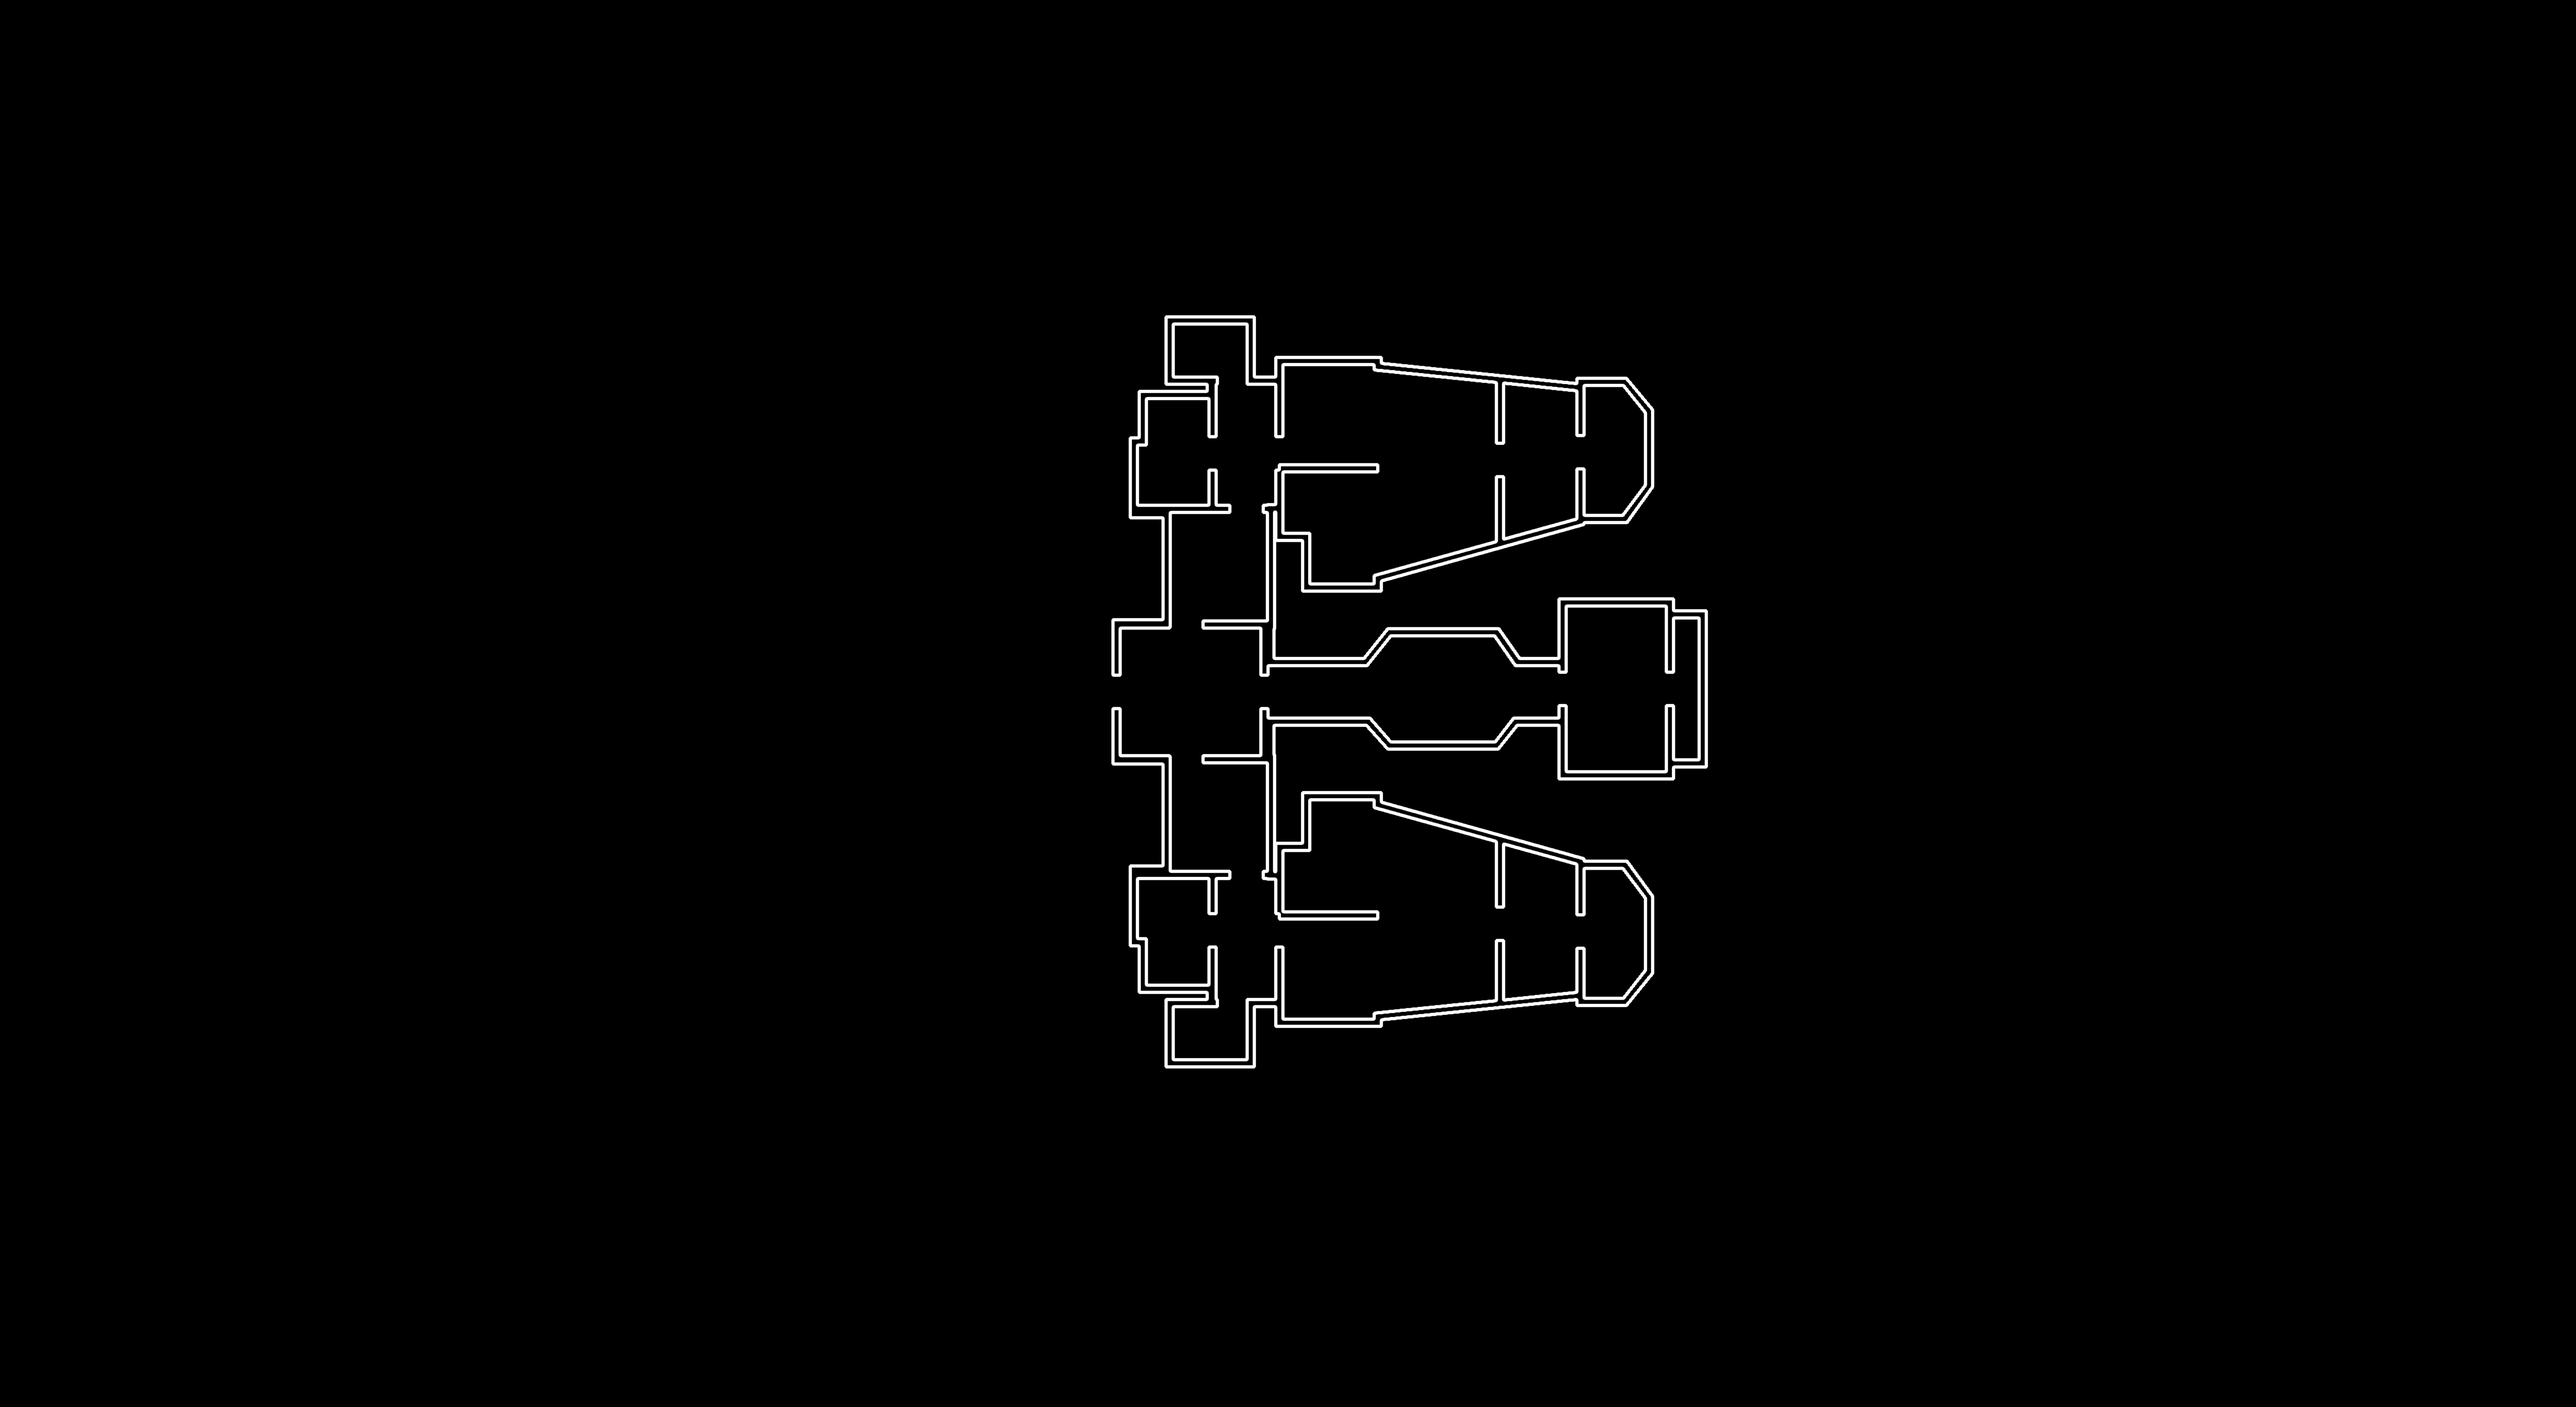
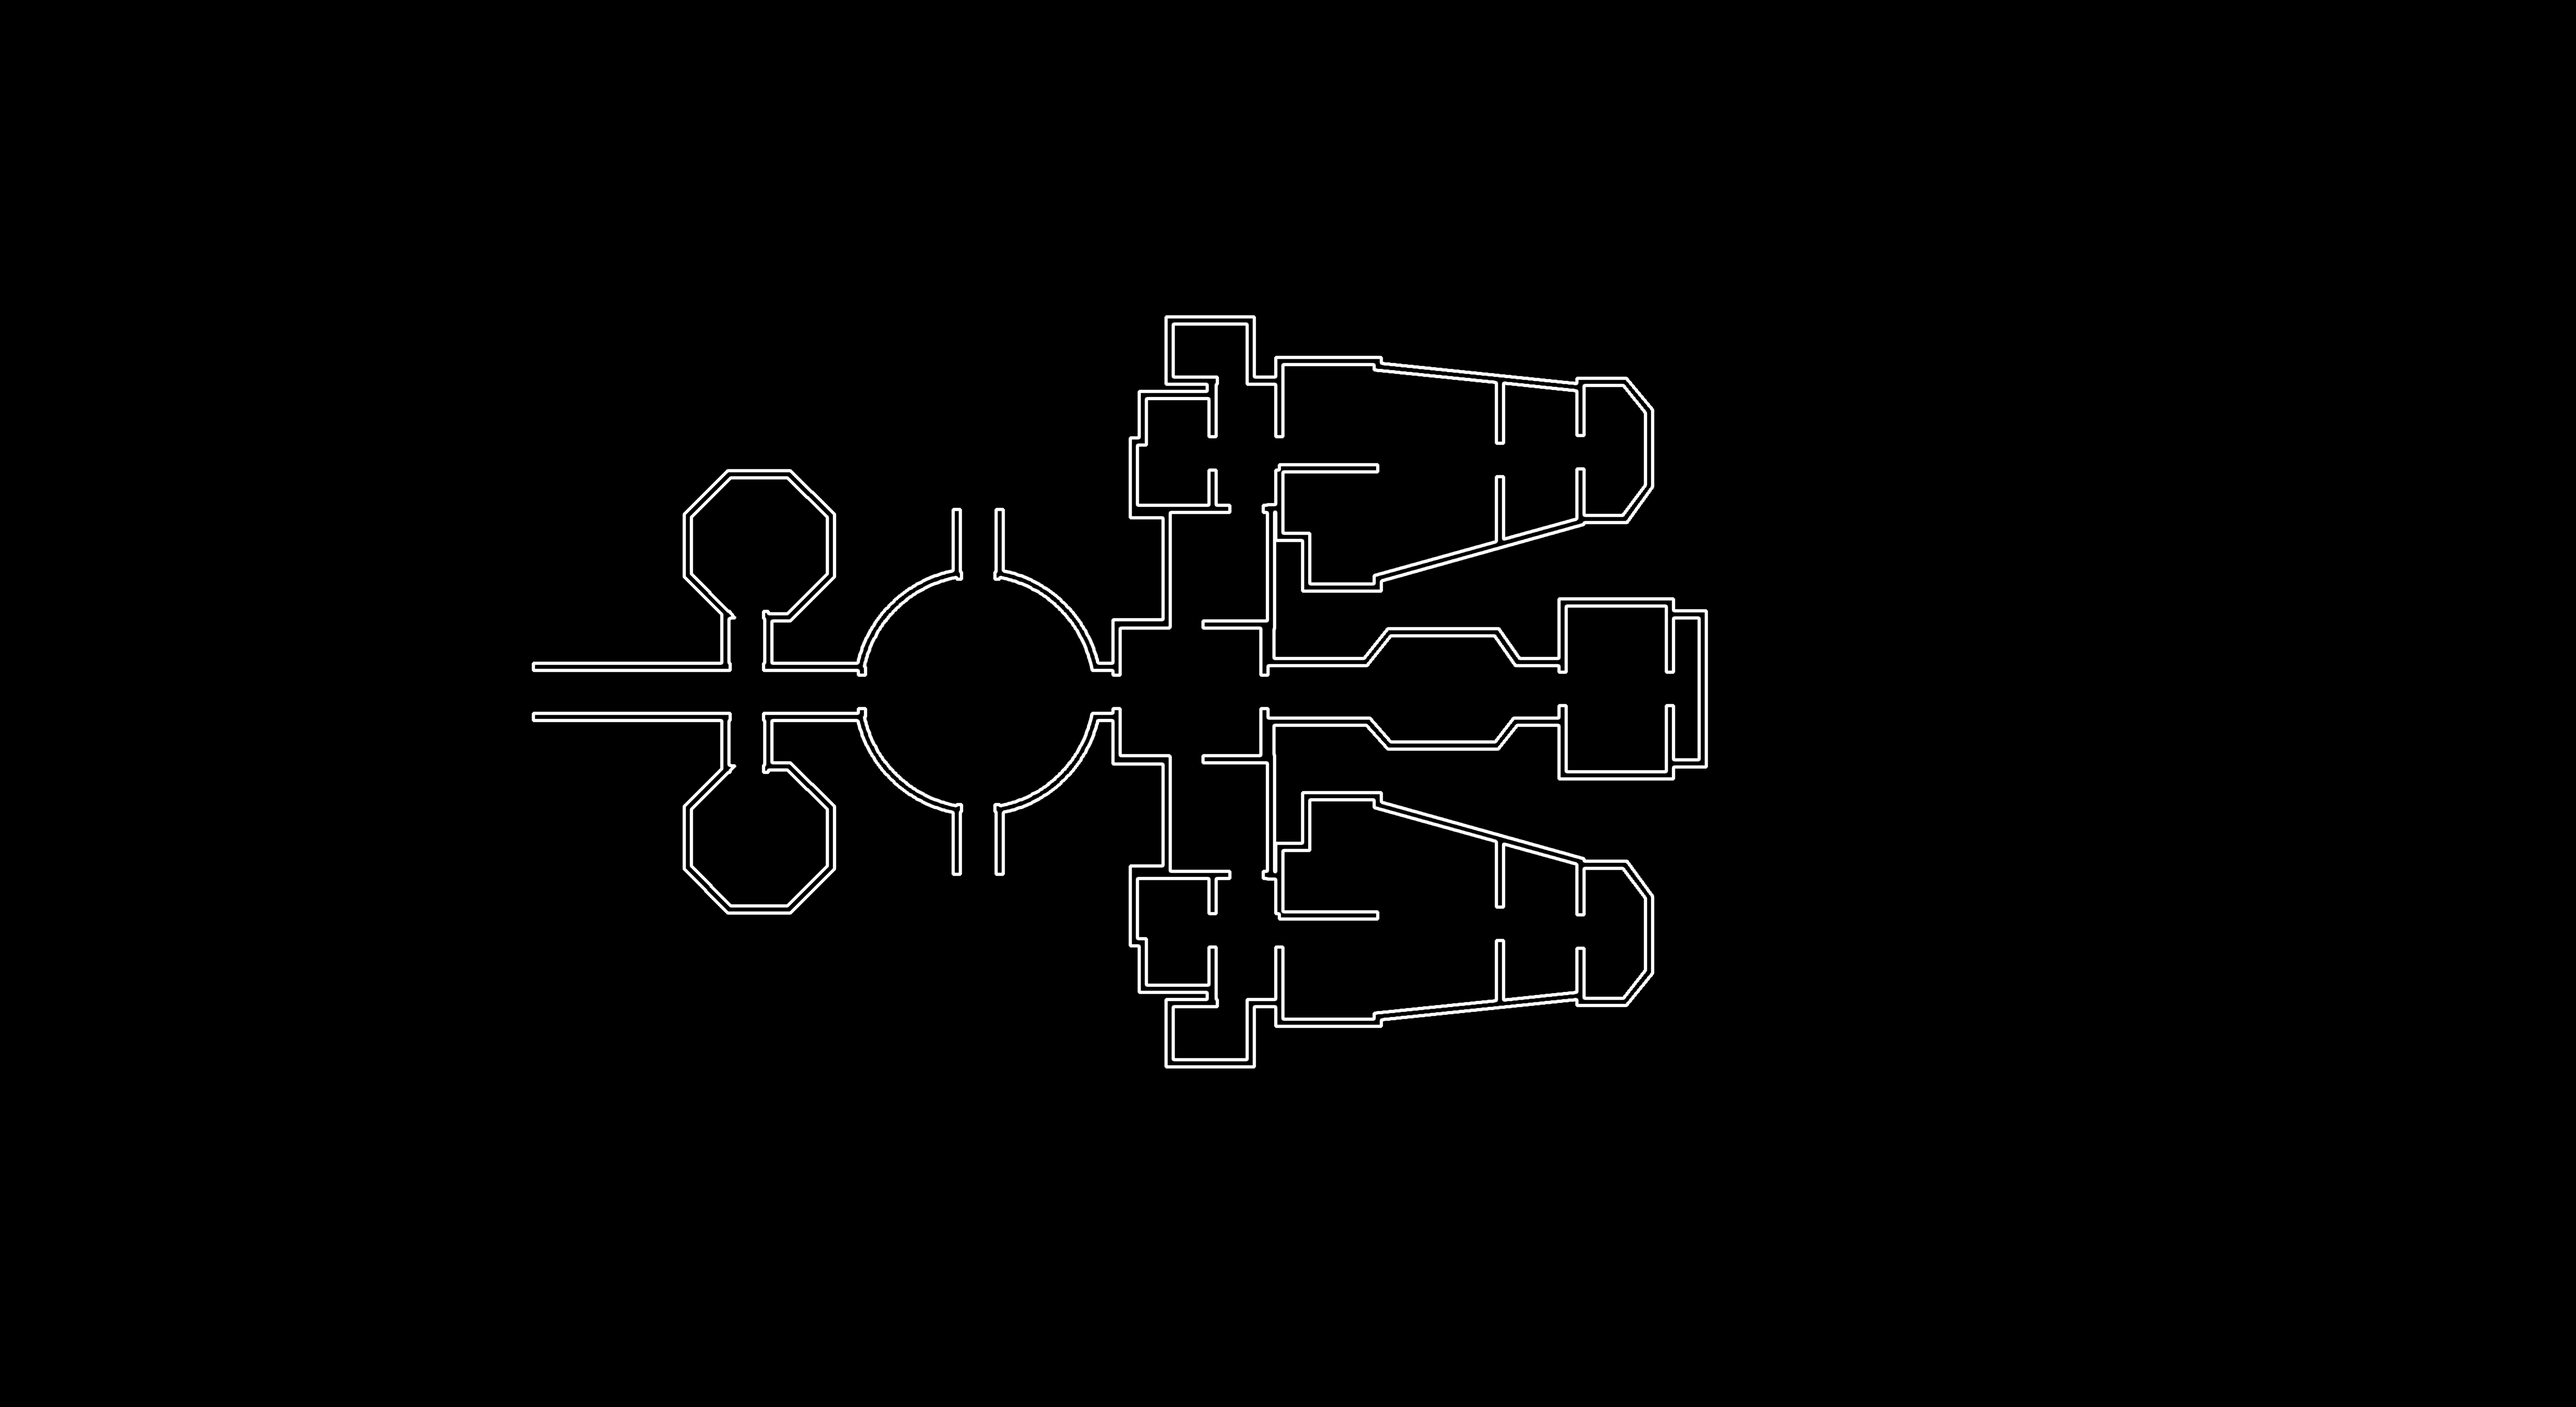
v13.36: Tianjin main deck section 3 (CIC, spine, octagons)
Claude-Session: https://claude.ai/code/session_01SinQW9aeLHqCBjq9e21Gyo

diff --git a/web_shell.html b/web_shell.html
@@ -4,8 +4,8 @@
 <meta charset="utf-8">
 <meta name="viewport" content="width=device-width,initial-scale=1,maximum-scale=1,user-scalable=no,viewport-fit=cover">
 <meta name="theme-color" content="#f6f9fc">
-<meta name="hl-version" content="v13.35">
-<title>Homelancer Digital v13.35</title>
+<meta name="hl-version" content="v13.36">
+<title>Homelancer Digital v13.36</title>
 <style>
 *{box-sizing:border-box}
 html,body{margin:0;width:100%;height:100%;background:#f6f9fc;color:#0e2f5a;font:16px system-ui,sans-serif;overflow:hidden;touch-action:none}

diff --git a/tools/trace/ship_tianjin_03/eng/build_main_deck.py b/tools/trace/ship_tianjin_03/eng/build_main_deck.py
@@ -47,11 +47,28 @@ s2_walls = [wall((1901, 638), (2150, 638), [168]),     # owner X: escape-pod roo
 s2_walls = s2_walls + [mirror(w) for w in s2_walls] + [
             wall((2120, 1047), (2120, 2 * CY - 1047), [CY - 1047]),   # centre room / forward corridor
             wall((1872, 1047), (1872, 2 * CY - 1047), [CY - 1047])]   # centre room / CIC (next section)
-floor = unary_union([pod, mirror(pod), corridor, bay, col])
+# ---- section 3: round CIC (circle fit R 201 about (1640, 1161)), the spine aft, two octagon rooms on links
+from shapely.geometry import Point
+def octagon(cx, cy, a):   # regular octagon, flat top/bottom/sides, apothem a
+    r = a / np.cos(np.pi / 8)
+    return Polygon([(cx + r * np.cos(np.pi / 8 + k * np.pi / 4), cy + r * np.sin(np.pi / 8 + k * np.pi / 4)) for k in range(8)])
+cic3 = Point(1640, CY).buffer(201, 128)
+spine = box(900, CY - 42, 1445, CY + 42)                       # wall centres 1118 / 1202 (measured 1122 / 1205)
+cic_link = box(1835, CY - DOOR / 2 - 14, 1885, CY + DOOR / 2 + 14)
+octa = octagon(1273, 915, 120)
+olink = box(1216, 1030, 1288, CY - 30)                         # octagon down to the spine
+stub = box(1604, 860, 1676, 970)                                # CIC up to the Galley wedge (next section)
+s3_walls = [wall((1216, 1031), (1288, 1031), [36]), wall((1216, CY - 42), (1288, CY - 42), [36])]   # framed doors at both ends
+s3_walls = s3_walls + [mirror(w) for w in s3_walls] + [
+    wall((1445, CY - 42), (1445, CY + 42), [42]),               # spine into the CIC
+    wall((1604, 965), (1676, 965), [36]), mirror(wall((1604, 965), (1676, 965), [36]))]
+s3 = unary_union([cic3, spine, cic_link, octa, mirror(octa), olink, mirror(olink), stub, mirror(stub)])
+floor = unary_union([pod, mirror(pod), corridor, bay, col, s3])
 walls = floor.buffer(T / 2, join_style=2).difference(floor.buffer(-T / 2, join_style=2))
-inner = unary_union(pod_walls + [mirror(w) for w in pod_walls] + bay_walls + s2_walls).intersection(floor.buffer(T / 2, join_style=2))   # no stubs outside
+inner = unary_union(pod_walls + [mirror(w) for w in pod_walls] + bay_walls + s2_walls + s3_walls).intersection(floor.buffer(T / 2, join_style=2))   # no stubs outside
 walls = unary_union([walls, inner])
-for o in [box(1855, CY - DOOR / 2, 1890, CY + DOOR / 2)]:            # centre room opens aft into the CIC (next section)
+for o in [box(880, CY - 36, 912, CY + 36),                            # spine runs on aft (next section)
+          box(1610, 850, 1670, 868), mirror(box(1610, 850, 1670, 868))]:   # CIC stubs run on (next section)
     walls = walls.difference(o)
 
 src = cv2.imread(os.path.join(HERE, "..", "part_main_deck_x4.jpg")); H, W = src.shape[:2]
@@ -66,6 +83,7 @@ for im in (plan, ov): cv2.drawContours(im, cs, -1, (255, 255, 255), 3, cv2.LINE_
 cv2.imwrite(os.path.join(HERE, "main_plan.png"), plan)
 cv2.imwrite(os.path.join(HERE, "main_plan_on_map.jpg"), ov, [cv2.IMWRITE_JPEG_QUALITY, 88])
 cv2.imwrite(os.path.join(HERE, "main_plan_section1.jpg"), ov[520:1800, 1900:2950], [cv2.IMWRITE_JPEG_QUALITY, 90])
+cv2.imwrite(os.path.join(HERE, "main_s3_big.jpg"), cv2.resize(ov[600:1720, 860:1900], None, fx=1.3, fy=1.3, interpolation=cv2.INTER_CUBIC), [cv2.IMWRITE_JPEG_QUALITY, 90])
 cv2.imwrite(os.path.join(HERE, "main_s2_big.jpg"), cv2.resize(ov[500:1830, 1820:2340], None, fx=1.6, fy=1.6, interpolation=cv2.INTER_CUBIC), [cv2.IMWRITE_JPEG_QUALITY, 90])
 json.dump({"units": "x4 main-deck px", "mirror_y": CY, "thickness": T, "door": DOOR, "floor": mapping(floor), "walls": mapping(walls)},
           open(os.path.join(HERE, "main_plan.json"), "w"))

diff --git a/docs/V1.2_BUILD.md b/docs/V1.2_BUILD.md
@@ -2187,3 +2187,6 @@ the camera automatically does a zoom to that section ... helmet, body, lower bod
 
 ## v13.35 — Tianjin main deck progress image (no game change)
 - main_so_far.jpg: sections 1 and 2 together on the map.
+
+## v13.36 — Tianjin main deck, section 3 (no game change)
+- Round CIC (least-squares circle, R 201 about (1640,1161)) with four doors: forward to the centre room, aft to the spine, up/down stubs to the Galley/Armory; the spine aft (84 wide, walls measured 1122/1205); two regular octagon rooms (apothem 120 about (1273,915) and mirror) on short links down/up to the spine, framed doors. main_s3_big.jpg.
